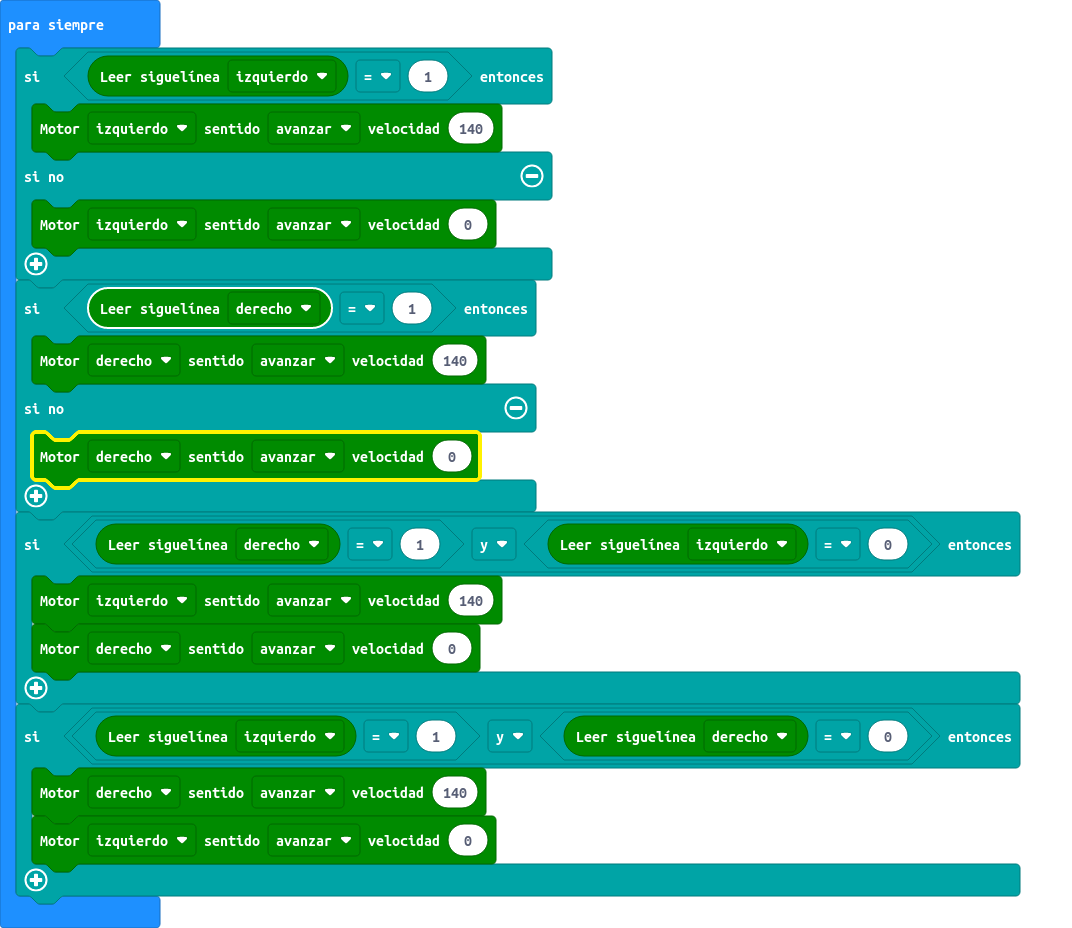
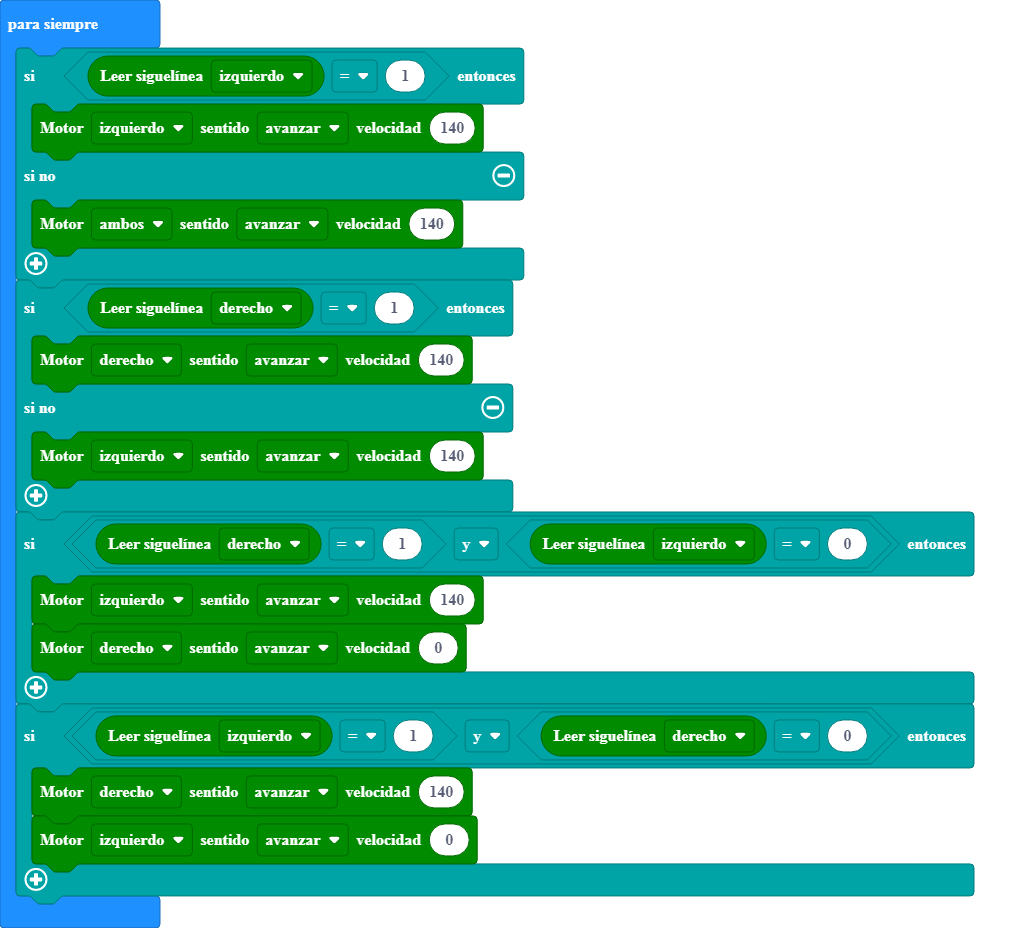
cghfcyvghvhjyv

diff --git a/main.ts b/main.ts
@@ -2,12 +2,12 @@ basic.forever(function () {
     if (maqueen.readPatrol(maqueen.Patrol.PatrolLeft) == 1) {
         maqueen.motorRun(maqueen.Motors.M1, maqueen.Dir.CW, 140)
     } else {
-        maqueen.motorRun(maqueen.Motors.M1, maqueen.Dir.CW, 0)
+        maqueen.motorRun(maqueen.Motors.All, maqueen.Dir.CW, 140)
     }
     if (maqueen.readPatrol(maqueen.Patrol.PatrolRight) == 1) {
         maqueen.motorRun(maqueen.Motors.M2, maqueen.Dir.CW, 140)
     } else {
-        maqueen.motorRun(maqueen.Motors.M2, maqueen.Dir.CW, 0)
+        maqueen.motorRun(maqueen.Motors.M1, maqueen.Dir.CW, 140)
     }
     if (maqueen.readPatrol(maqueen.Patrol.PatrolRight) == 1 && maqueen.readPatrol(maqueen.Patrol.PatrolLeft) == 0) {
         maqueen.motorRun(maqueen.Motors.M1, maqueen.Dir.CW, 140)
